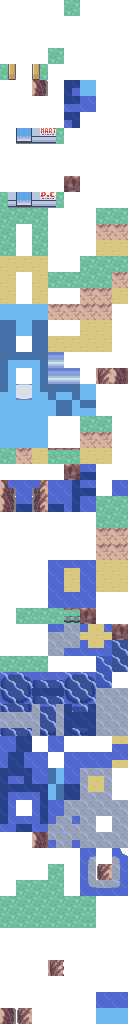
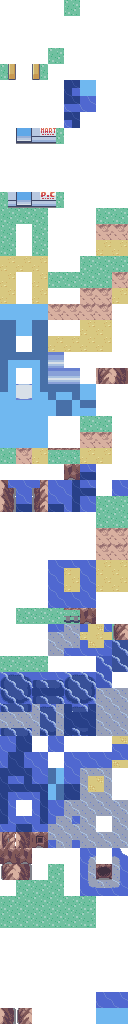
Updated general tileset

diff --git a/porytiles/metatile_behaviors.h b/porytiles/metatile_behaviors.h
@@ -74,13 +74,13 @@
 #define MB_SLIDE_NORTH 0x46
 #define MB_SLIDE_SOUTH 0x47
 #define MB_TRICK_HOUSE_PUZZLE_8_FLOOR 0x48
-#define MB_UNUSED_49 0x49
-#define MB_UNUSED_4A 0x4A
-#define MB_UNUSED_4B 0x4B
-#define MB_UNUSED_4C 0x4C
-#define MB_UNUSED_4D 0x4D
-#define MB_UNUSED_4E 0x4E
-#define MB_UNUSED_4F 0x4F
+#define MB_SIDEWAYS_STAIRS_RIGHT_SIDE 0x49
+#define MB_SIDEWAYS_STAIRS_LEFT_SIDE 0x4A
+#define MB_SIDEWAYS_STAIRS_RIGHT_SIDE_TOP 0x4B
+#define MB_SIDEWAYS_STAIRS_LEFT_SIDE_TOP 0x4C
+#define MB_SIDEWAYS_STAIRS_RIGHT_SIDE_BOTTOM 0x4D
+#define MB_SIDEWAYS_STAIRS_LEFT_SIDE_BOTTOM 0x4E
+#define MB_ROCK_STAIRS 0x4F
 #define MB_EASTWARD_CURRENT 0x50
 #define MB_WESTWARD_CURRENT 0x51
 #define MB_NORTHWARD_CURRENT 0x52
